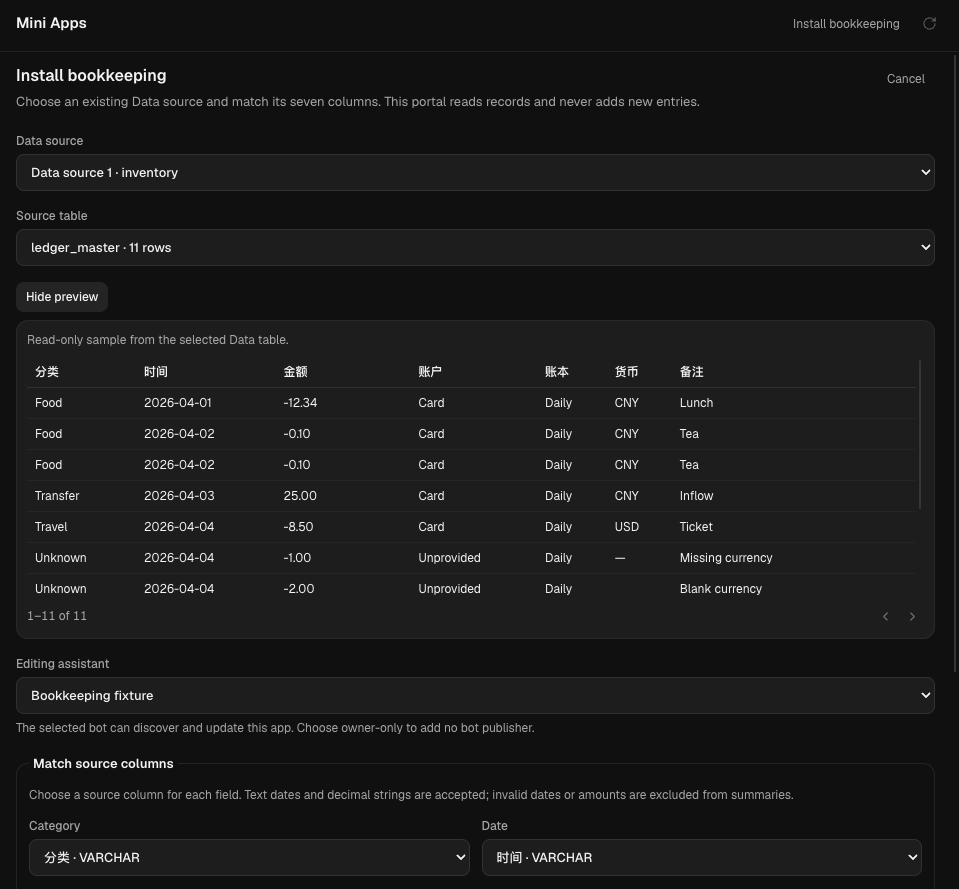
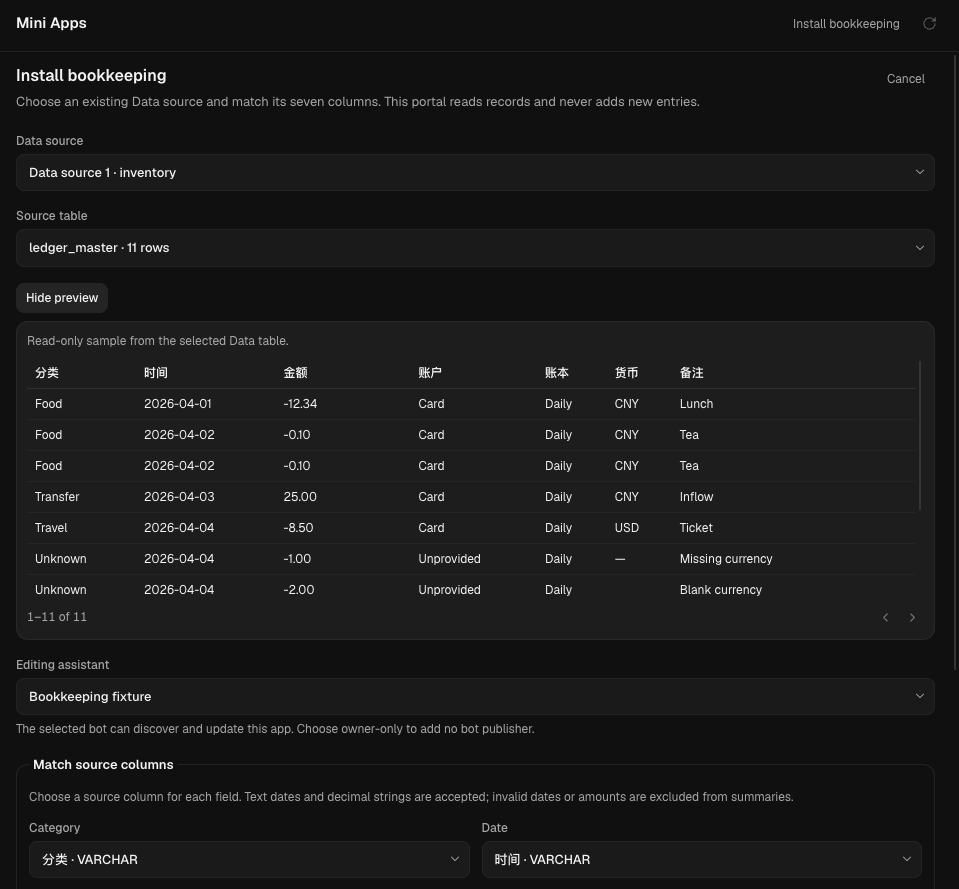
Use shared select controls in the bookkeeping installer

diff --git a/src/components/mini-apps/BookkeepingInstall.tsx b/src/components/mini-apps/BookkeepingInstall.tsx
@@ -7,6 +7,7 @@ import type { MiniAppDataset, MiniAppMutationResult, MiniAppSources } from "../.
 import { BOOKKEEPING_FIELDS, createBookkeepingPublish, suggestedBookkeepingColumns, type BookkeepingColumns } from "../../../shared/bookkeeping-mini-app";
 import bookkeepingHtml from "../../../examples/mini-apps/bookkeeping/index.html?raw";
 import { SourceTablePreview } from "./SourceTablePreview";
+import { Select } from "../Select";
 import { miniAppNativeFrameGuard } from "./native-frame-guard";
 
 const emptyColumns = Object.fromEntries(BOOKKEEPING_FIELDS.map((field) => [field, ""])) as BookkeepingColumns;
@@ -122,10 +123,10 @@ export function BookkeepingInstall({ onCancel, onInstalled }: { onCancel(): void
       {sources && <div className="mt-5 space-y-4">
         <label className="block text-[12px] font-medium text-ink-secondary">
           {t("computer.miniApps.source.choose")}
-          <select value={selectedSource} disabled={busy} onChange={(event) => changeSource(event.target.value)} className="mt-1 block w-full min-w-0 rounded-lg border border-hairline bg-card px-2.5 py-2 text-[13px] text-ink focus-visible:outline-2 focus-visible:outline-accent">
+          <Select value={selectedSource} disabled={busy} onChange={(event) => changeSource(event.target.value)} className="mt-1 w-full">
             {sources.datasets.map((entry, index) => <option key={entry.datasetId} value={`dataset:${entry.datasetId}`}>{sourceLabel(entry, index)}</option>)}
             {sources.bots.map((bot) => <option key={bot.id} value={`bot:${bot.id}`}>{t("computer.miniApps.source.bot", { name: bot.name })}</option>)}
-          </select>
+          </Select>
         </label>
         {selectedBotId && <div className="rounded-xl bg-inset p-3">
           <p className="text-[13px] text-ink-secondary">{t("computer.miniApps.source.connectDescription")}</p>
@@ -135,21 +136,21 @@ export function BookkeepingInstall({ onCancel, onInstalled }: { onCancel(): void
         {dataset && dataset.tables.length > 0 && <>
           <label className="block text-[12px] font-medium text-ink-secondary">
             {t("computer.miniApps.source.table")}
-            <select value={tableIndex} disabled={busy} onChange={(event) => changeTable(Number(event.target.value))} className="mt-1 block w-full min-w-0 rounded-lg border border-hairline bg-card px-2.5 py-2 text-[13px] text-ink focus-visible:outline-2 focus-visible:outline-accent">
+            <Select value={tableIndex} disabled={busy} onChange={(event) => changeTable(Number(event.target.value))} className="mt-1 w-full">
               {dataset.tables.map((entry, index) => <option key={`${entry.schema}.${entry.name}`} value={index}>{entry.name} · {t("computer.miniApps.source.rows", { count: entry.rowCount.toLocaleString() })}</option>)}
-            </select>
+            </Select>
           </label>
           {table && <SourceTablePreview key={`${dataset.datasetId}:${table.schema}:${table.name}`} datasetId={dataset.datasetId} table={table} />}
           <label className="block text-[12px] font-medium text-ink-secondary">
             {t("computer.miniApps.publisher.label")}
-            <select value={publisherBotId} disabled={busy} onChange={(event) => {
+            <Select value={publisherBotId} disabled={busy} onChange={(event) => {
               setPublisherBotId(event.target.value);
               publisherByDataset.current.set(dataset.datasetId, event.target.value);
               requestKey.current = null;
-            }} className="mt-1 block w-full min-w-0 rounded-lg border border-hairline bg-card px-2.5 py-2 text-[13px] text-ink focus-visible:outline-2 focus-visible:outline-accent">
+            }} className="mt-1 w-full">
               <option value="">{t("computer.miniApps.publisher.ownerOnly")}</option>
               {sources.bots.map((bot) => <option key={bot.id} value={bot.id}>{bot.name}</option>)}
-            </select>
+            </Select>
             <span className="mt-1 block text-[12px] font-normal leading-5 text-ink-secondary">{t("computer.miniApps.publisher.help")}</span>
           </label>
           {table && <fieldset className="min-w-0 rounded-xl border border-hairline/60 p-3">
@@ -158,10 +159,10 @@ export function BookkeepingInstall({ onCancel, onInstalled }: { onCancel(): void
             <div className="grid grid-cols-1 gap-3 @min-[29rem]/mini-apps:grid-cols-2">
               {BOOKKEEPING_FIELDS.map((field) => <label key={field} className="min-w-0 text-[12px] font-medium text-ink-secondary">
                 {t(`computer.miniApps.field.${field}`)}
-                <select value={columns[field]} disabled={busy} onChange={(event) => changeColumn(field, event.target.value)} className="mt-1 block w-full min-w-0 rounded-lg border border-hairline bg-card px-2.5 py-2 text-[13px] text-ink focus-visible:outline-2 focus-visible:outline-accent">
+                <Select value={columns[field]} disabled={busy} onChange={(event) => changeColumn(field, event.target.value)} className="mt-1 w-full">
                   <option value="">{t("computer.miniApps.source.chooseColumn")}</option>
                   {table.columns.map((column) => <option key={column.name} value={column.name}>{column.name} · {column.type}</option>)}
-                </select>
+                </Select>
               </label>)}
             </div>
           </fieldset>}
